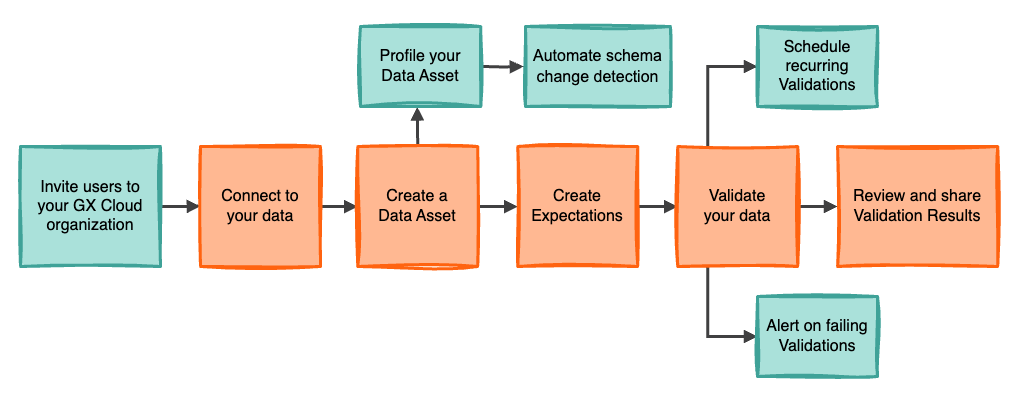
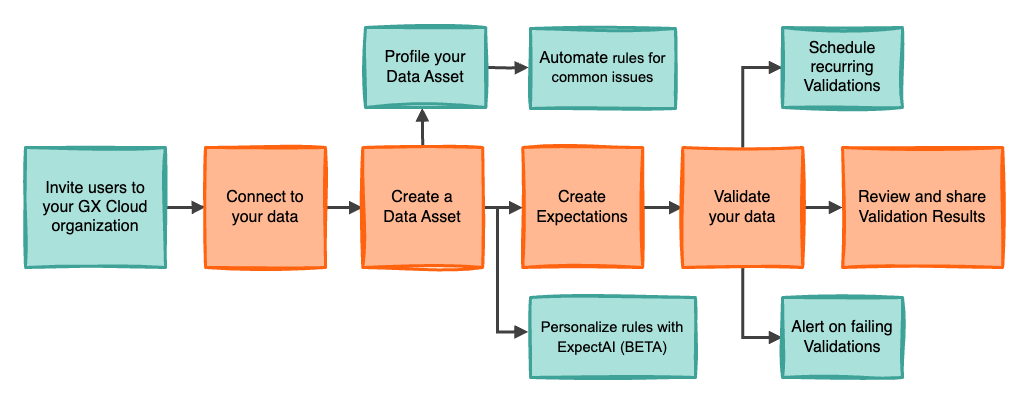
[DOCS] volume change detection (#10927)

Pull request: [DOCS] volume change detection
Resolves https://greatexpectations.atlassian.net/browse/DOC-1042 and https://greatexpectations.atlassian.net/browse/DOC-1043 according to the plan linked in those issues

- [x] Description of PR changes above includes a link to [an existing GitHub issue](https://github.com/great-expectations/great_expectations/issues)
- [x] PR title is prefixed with one of: [BUGFIX], [FEATURE], [DOCS], [MAINTENANCE], [CONTRIB]
- [ ] Code is linted - run `invoke lint` (uses `ruff format` + `ruff check`)
- [x] Appropriate tests and docs have been updated

For more information about contributing, visit our [community resources](https://docs.greatexpectations.io/docs/core/introduction/community_resources#contribute-code-or-documentation).

After you submit your PR, keep the page open and **monitor the statuses of the various checks made by our continuous integration process at the bottom of the page. Please fix any issues that come up** and [reach out on Slack](https://greatexpectations.io/slack) if you need help. Thanks for contributing!

Changed region(s): [[0.0, 0.0606, 1.0, 0.9697], [0.3343, 0.0606, 0.4863, 0.303], [0.5775, 0.2727, 0.6078, 0.303]]

diff --git a/docs/docusaurus/sidebars.js b/docs/docusaurus/sidebars.js
@@ -148,9 +148,13 @@ module.exports = {
   ],
   gx_cloud: [
     {
-      type: 'doc',
-      label: 'GX Cloud overview',
-      id: 'cloud/overview/gx_cloud_overview'
+      type: 'category',
+      label: 'Introduction',
+      link: { type: 'doc', id: 'cloud/gx_cloud_lp' },
+      items: [
+        'cloud/overview/gx_cloud_overview',
+        'cloud/overview/automating_rules',
+      ]
     },
     {
       type: 'category',

diff --git a/docs/docusaurus/docs/cloud/overview/automating_rules.md b/docs/docusaurus/docs/cloud/overview/automating_rules.md
@@ -1,0 +1,31 @@
+---
+title: 'Automating data quality rules'
+description: Generate data quality rules to more quickly achieve test coverage for your data.
+---
+
+With GX Cloud, you can automatically generate data quality rules to more quickly achieve test coverage for your data. This page provides an overview of the following options:
+
+- Automating [standard rules](#monitoring-common-issues) as part of adding a new Data Asset.
+- Generating [personalized AI-recommended rules](#personalizing-recommendations-with-expectai-beta) for an existing Data Asset.
+
+## Monitoring common issues
+
+When you [add a new Data Asset](/cloud/data_assets/manage_data_assets.md), GX Cloud by default generates Expectations to test the following common data quality issues:
+- [Schema](#schema)
+- [Volume](#volume)
+- Completeness (coming soon)
+- Uniqueness (coming soon)
+
+
+### Schema
+
+To detect schema changes, we automatically generate a rule to [**expect table columns to match set**](/reference/learn/data_quality_use_cases/schema.md#expect-table-columns-to-match-set) using the Data Asset’s initial columns as the set to match. If the number or names of columns in the Data Asset change, this Expectation will fail.
+
+### Volume
+
+To detect non-increasing volume, we automatically generate a rule to [**expect table row count to be between**](/reference/learn/data_quality_use_cases/volume.md#expect-table-row-count-to-be-between) with dynamic parameters that test that the current validation run has more rows than the previous run. If the row count shrinks or stays the same between runs, this Expectation will fail.
+
+## Personalizing recommendations with ExpectAI (BETA)
+
+[ExpectAI (BETA)](/cloud/expectations/manage_expectations.md#generate-expectations-with-expectai-beta) performs deep analysis on a given Data Asset to set Expectations based on patterns in the data. These AI-recommended data quality rules are sometimes based on anomalies detected in the data, so they may fail on the first validation to bring your attention to potential problems.  
+

diff --git a/docs/docusaurus/docs/cloud/connect/connect_snowflake.md b/docs/docusaurus/docs/cloud/connect/connect_snowflake.md
@@ -103,14 +103,21 @@ Then, you can use GX Cloud to [add a Data Asset](/cloud/data_assets/manage_data_
       snowflake://<USER>:<PASSWORD>@<ACCOUNT_IDENTIFIER>/<DATABASE>/<SCHEMA>?warehouse=<WAREHOUSE>&role=<ROLE>
       ```
    
-5. Click **Connect**. 
+5. Click **Connect**.
 
 6. Select one or more tables to import as Data Assets.
 
-7. Decide if you want to **Generate Expectations that detect column changes in selected Data Assets**.
+7. Click **Add x Asset(s)**.
 
-8. Click **Add x Asset(s)**. 
+8. Decide which [common data quality issues](/docs/cloud/overview/automating_rules.md#monitoring-common-issues) you want to start monitoring. By default, GX Cloud adds Expectations to detect **Schema** and **Volume** issues. You can de-select recommendations you’d like to opt out of.
 
-9. Add an Expectation. See [Add an Expectation](/cloud/expectations/manage_expectations.md#add-an-expectation).
+9. Click **Start monitoring** or **Finish**.
+
+
+## Next steps
+
+- [Add an Expectation](/cloud/expectations/manage_expectations.md#add-an-expectation).
+- [Run a Validation](/cloud/validations/manage_validations.md).
+
 
 

diff --git a/docs/docusaurus/docs/cloud/data_assets/manage_data_assets.md b/docs/docusaurus/docs/cloud/data_assets/manage_data_assets.md
@@ -14,13 +14,7 @@ To add a Data Asset from a new Data Source, refer to [Connect GX Cloud](/cloud/c
 
 ## Add a Data Asset from an existing Data Source
 
-Define the data you want GX Cloud to access. 
-
-### Prerequisites
-
-- You have connected GX Cloud to the relevant Data Source.
-
-### Procedure
+To add a Data Asset from an existing Data Source, complete the following steps:
 
 1. In GX Cloud, click **Data Assets** > **New Data Asset**.
 
@@ -28,9 +22,11 @@ Define the data you want GX Cloud to access.
 
 3. Select one or more tables to import as Data Assets.
 
-4. Decide if you want to **Generate Expectations that detect column changes in selected Data Assets**. 
+4. Click **Add x Asset(s)**.
 
-5. Click **Add x Asset(s)**.
+5. Decide which [common data quality issues](/docs/cloud/overview/automating_rules.md#monitoring-common-issues) you want to start monitoring. By default, GX Cloud adds Expectations to detect **Schema** and **Volume** issues. You can de-select recommendations you’d like to opt out of.
+
+6. Click **Start monitoring** or **Finish**.
 
 Then you can [add an Expectation](/cloud/expectations/manage_expectations.md#add-an-expectation) for your new Data Asset.
 

diff --git a/docs/docusaurus/docs/cloud/connect/connect_postgresql.md b/docs/docusaurus/docs/cloud/connect/connect_postgresql.md
@@ -58,9 +58,16 @@ import Tabs from '@theme/Tabs';
 
 5. Select one or more tables to import as Data Assets.
 
-6. Decide if you want to **Generate Expectations that detect column changes in selected Data Assets**.
+6. Click **Add x Asset(s)**.
 
-7. Click **Add x Asset(s)**. 
+7. Decide which [common data quality issues](/docs/cloud/overview/automating_rules.md#monitoring-common-issues) you want to start monitoring. By default, GX Cloud adds Expectations to detect **Schema** and **Volume** issues. You can de-select recommendations you’d like to opt out of.
 
-8. Add an Expectation. See [Add an Expectation](/cloud/expectations/manage_expectations.md#add-an-expectation).
+8. Click **Start monitoring** or **Finish**.
+
+
+## Next steps
+
+- [Add an Expectation](/cloud/expectations/manage_expectations.md#add-an-expectation).
+- [Run a Validation](/cloud/validations/manage_validations.md).
+
 

diff --git a/docs/docusaurus/docs/cloud/connect/connect_databrickssql.md b/docs/docusaurus/docs/cloud/connect/connect_databrickssql.md
@@ -33,8 +33,14 @@ import Tabs from '@theme/Tabs';
 
 5. Select one or more tables to import as Data Assets.
 
-6. Decide if you want to **Generate Expectations that detect column changes in selected Data Assets**.
+6. Click **Add x Asset(s)**.
 
-7. Click **Add x Asset(s)**. 
+7. Decide which [common data quality issues](/docs/cloud/overview/automating_rules.md#monitoring-common-issues) you want to start monitoring. By default, GX Cloud adds Expectations to detect **Schema** and **Volume** issues. You can de-select recommendations you’d like to opt out of.
 
-8. Add an Expectation. See [Add an Expectation](/cloud/expectations/manage_expectations.md#add-an-expectation).
+8. Click **Start monitoring** or **Finish**.
+
+
+## Next steps
+
+- [Add an Expectation](/cloud/expectations/manage_expectations.md#add-an-expectation).
+- [Run a Validation](/cloud/validations/manage_validations.md).

diff --git a/docs/docusaurus/docs/cloud/gx_cloud_lp.md b/docs/docusaurus/docs/cloud/gx_cloud_lp.md
@@ -3,7 +3,6 @@ title: "GX Cloud"
 hide_title: true
 description: Get started with GX Cloud and learn more about GX Cloud features and functionality.
 hide_table_of_contents: true
-pagination_next: null
 pagination_prev: null
 slug: "/cloud/"
 displayed_sidebar: gx_cloud
@@ -18,13 +17,18 @@ import OverviewCard from '@site/src/components/OverviewCard';
   Test and validate your Data Assets with our web-based UI.
 </OverviewCard>
 
-### Get started
+
+### Introduction
 
 <LinkCardGrid>
   <LinkCard topIcon label="GX Cloud overview" description="Learn more about GX Cloud features and functionality." to="/cloud/overview/gx_cloud_overview" icon="/img/small_gx_logo.png" />
+  <LinkCard topIcon label="Automating data quality rules" description="Explore options for more quickly achieving test coverage." to="/cloud/overview/automating_rules" icon="/img/small_gx_logo.png" />
+</LinkCardGrid>
 
+### Get started
+
+<LinkCardGrid>
   <LinkCard topIcon label="Deploy GX Cloud" description="Learn how to deploy GX Cloud in your environment." to="/cloud/deploy/deploy_lp" icon="/img/small_gx_logo.png" />
-
   <LinkCard topIcon label="Connect GX Cloud" description="Ready to integrate GX Cloud with your production environment? Connect GX Cloud to popular data platforms and orchestration tools." to="/cloud/connect/connect_lp" icon="/img/small_gx_logo.png" />
 </LinkCardGrid>
 
@@ -34,6 +38,7 @@ import OverviewCard from '@site/src/components/OverviewCard';
   <LinkCard topIcon label="Manage Data Assets" description="Create, edit, or delete a Data Asset." to="/cloud/data_assets/manage_data_assets" icon="/img/small_gx_logo.png" />
   <LinkCard topIcon label="Manage Expectations" description="Create, edit, or delete an Expectation." to="/cloud/expectations/manage_expectations" icon="/img/small_gx_logo.png" />
   <LinkCard topIcon label="Manage Validations" description="Run a Validation, or view the Validation run history." to="/cloud/validations/manage_validations" icon="/img/small_gx_logo.png" />
+  <LinkCard topIcon label="Manage schedules" description="Use a schedule to automate data quality checks." to="/cloud/schedules/manage_schedules" icon="/img/small_gx_logo.png" />
   <LinkCard topIcon label="Manage alerts" description="Add, edit, or delete alerts." to="/cloud/alerts/manage_alerts" icon="/img/small_gx_logo.png" />
   <LinkCard topIcon label="Manage users and access tokens" description="Manage GX Cloud users and access tokens." to="/cloud/users/manage_users" icon="/img/small_gx_logo.png" />
 </LinkCardGrid>

diff --git a/docs/docusaurus/docs/reference/learn/data_quality_use_cases/volume.md b/docs/docusaurus/docs/reference/learn/data_quality_use_cases/volume.md
@@ -7,7 +7,7 @@ import TabItem from '@theme/TabItem';
 
 Data volume, a critical aspect of data quality, refers to the quantity of records or data points within a dataset. Managing data volume effectively is crucial for maintaining data integrity, ensuring system performance, and deriving accurate insights. Unexpected changes in data volume can signal issues in data collection, processing, or storage, potentially leading to skewed analyses or system failures. Volume management is intrinsically linked to other aspects of data quality, such as data completeness and consistency, forming a crucial part of a comprehensive data quality strategy.
 
-Great Expectations (GX) offers a powerful set of tools for monitoring and validating data volume through its volume-focused Expectations. By integrating these Expectations into your data pipelines, you can establish robust checks that ensure your datasets maintain the expected volume, catch anomalies early, and prevent downstream issues in your data workflows.
+Great Expectations (GX) offers a powerful set of tools for monitoring and validating data volume through its volume-focused Expectations. You can automatically generate some of these Expectations when you add a new Data Asset in GX Cloud. By integrating these Expectations into your data pipelines, you can establish robust checks that ensure your datasets maintain the expected volume, catch anomalies early, and prevent downstream issues in your data workflows.
 
 This guide will walk you through leveraging GX to effectively manage and validate data volume, helping you maintain high-quality, reliable datasets.
 
@@ -28,7 +28,7 @@ This dataset represents daily financial transactions. In a real-world scenario, 
 
 ## Key volume Expectations
 
-GX provides several Expectations specifically designed for managing data volume. These can be added via the GX Cloud UI or using the GX Core Python library.
+GX provides several Expectations specifically designed for managing data volume, all of which can be added directly from the GX Cloud UI or using the GX Core Python library. Some of them can be automatically generated when you add a new Data Asset using GX Cloud.
 
 ### Expect Table Row Count To Be Between
 
@@ -38,6 +38,10 @@ Ensures that the number of rows in a dataset falls within a specified range.
 
 ```python title="Python" name="docs/docusaurus/docs/reference/learn/data_quality_use_cases/volume_resources/volume_expectations.py ExpectTableRowCountToBeBetween"
 ```
+
+:::tip Automate this rule
+When you [create a new Data Asset with GX Cloud](/cloud/data_assets/manage_data_assets.md#add-a-data-asset-from-an-existing-data-source), you can choose to automatically generate an instance of this Expectation that detects non-increasing volume over time.
+:::
 
 <small>View `ExpectTableRowCountToBeBetween` in the [Expectation Gallery](https://greatexpectations.io/expectations/expect_table_row_count_to_be_between).</small>
 

diff --git a/docs/docusaurus/docs/cloud/expectations/manage_expectations.md b/docs/docusaurus/docs/cloud/expectations/manage_expectations.md
@@ -134,8 +134,8 @@ To clear the Expectation condition, click the clear button located on the right-
 
 8. Optional. Run a Validation. See [Run a Validation](/cloud/validations/manage_validations.md#run-a-validation).
 
-:::tip Automate rules for schema change detection
-When you [create a new Data Asset](/cloud/data_assets/manage_data_assets.md#add-a-data-asset-from-an-existing-data-source), you can choose to automatically generate Expectations that detect column changes in that Data Asset.
+:::tip Automate rules for common data quality issues
+When you [create a new Data Asset](/cloud/data_assets/manage_data_assets.md#add-a-data-asset-from-an-existing-data-source), you can choose to automatically generate Expectations that detect column changes and non-increasing volume in that Data Asset.
 :::
 
 ## Generate Expectations with ExpectAI <span class="beta">Beta</span>

diff --git a/docs/docusaurus/docs/cloud/overview/gx_cloud_overview.md b/docs/docusaurus/docs/cloud/overview/gx_cloud_overview.md
@@ -46,7 +46,9 @@ There are a variety of GX Cloud features that support additional enhancements to
 
 * **Data Asset profiling.** GX Cloud introspects your data schema by default on Data Asset creation, and also offers one-click fetching of additional descriptive metrics including column type and statistical summaries. Data profiling results are used to suggest parameters for Expectations that you create.
 
-* **Automate schema change detection.** GX Cloud can automatically generate Expectations that detect column changes. This option is available when [you create new Data Assets](/cloud/data_assets/manage_data_assets.md#add-a-data-asset-from-an-existing-data-source).
+* **Automate rules for common issues.** GX Cloud can automatically generate Expectations that detect column changes and non-increasing data volume. This option is available when [you create new Data Assets](/cloud/data_assets/manage_data_assets.md#add-a-data-asset-from-an-existing-data-source).
+
+* **Personalize rules with ExpectAI (BETA).** GX Cloud can generate [AI-recommended Expectations](/cloud/expectations/manage_expectations.md#generate-expectations-with-expectai-beta) for a Data Asset. These will be personalized based on an analysis of a sample of your data.
 
 * **Schedule Validations.** GX Cloud enables you to schedule validations, so that you can test and assess your data on a regular cadence and monitor data quality over time. See [Manage schedules](/cloud/schedules/manage_schedules.md) for more detail.
 

diff --git a/docs/docusaurus/docs/reference/learn/data_quality_use_cases/schema.md b/docs/docusaurus/docs/reference/learn/data_quality_use_cases/schema.md
@@ -139,7 +139,7 @@ flexibility where column presence is more critical than their sequence.
 ```
 
 :::tip Automate this rule
-When you [create a new Data Asset](/cloud/data_assets/manage_data_assets.md#add-a-data-asset-from-an-existing-data-source), you can choose to automatically generate this Expectation to test that columns don't diverge from the initial set over time.
+When you [create a new Data Asset with GX Cloud](/cloud/data_assets/manage_data_assets.md#add-a-data-asset-from-an-existing-data-source), you can choose to automatically generate this Expectation to test that columns don't diverge from the initial set over time.
 :::
 
 <small>View `ExpectTableColumnsToMatchSet` in the [Expectation